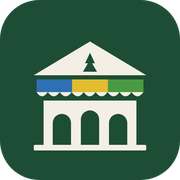
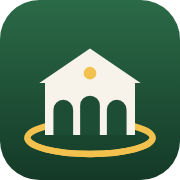
Ícone novo e layout melhor no celular
- Ícone redesenhado: galpão do mercado com três arcos e anel dourado de
  360° sobre fundo verde; icon-192, apple-touch-icon e imagem de
  compartilhamento (og-image) regerados.
- Celular: botões Sobre/Comerciantes maiores, título sem quebrar, lista
  de comerciantes como painel inferior de largura total com itens e busca
  maiores, minimapa um pouco maior com botões de andar rolando na
  horizontal. Build embute a meta viewport.

Claude-Session: https://claude.ai/code/session_01T5LTJjRkex4ekbvDLHkBHU

diff --git a/src/style.css b/src/style.css
@@ -204,6 +204,18 @@ div.dir-item.off { cursor: default; }
   .tip { display: block; }
   .minimap { width: 150px; }
   .minimap .mm-bar button { padding: 2px 5px; font-size: 11px; }
-  .forward { bottom: 24px; left: auto; right: 16px; transform: none; max-width: calc(100% - 200px); }
+  .forward { bottom: 24px; left: auto; right: 12px; transform: none; max-width: calc(100% - 210px); font-size: 14px; padding: 10px 14px; }
+  .topbar { padding: 10px 12px 18px; gap: 6px 8px; align-items: center; }
+  .brand { font-size: 14px; }
+  .brand img { width: 24px; height: 24px; }
+  .scene-title { font-size: 15px; flex: 1 1 100%; white-space: nowrap; overflow: hidden; text-overflow: ellipsis; }
+  .about { font-size: 14px; padding: 7px 14px; border-radius: 18px; min-height: 34px; }
+  .minimap { width: 178px; left: 12px; bottom: 12px; }
+  .minimap .mm-floors { flex-wrap: nowrap; overflow-x: auto; }
+  .minimap .mm-bar button { padding: 4px 7px; font-size: 11px; white-space: nowrap; }
+  .directory { z-index: 9; top: auto; left: 0; right: 0; bottom: 0; width: auto; height: 82%; border-radius: 16px 16px 0 0; padding: 16px; }
+  .dir-item { padding: 10px 8px; }
+  .dir-item strong { font-size: 15px; }
+  #dir-search { font-size: 16px; padding: 10px 12px; }
   .tip { top: 120px; bottom: auto; white-space: normal; width: max-content; max-width: calc(100% - 32px); text-align: center; }
 }
